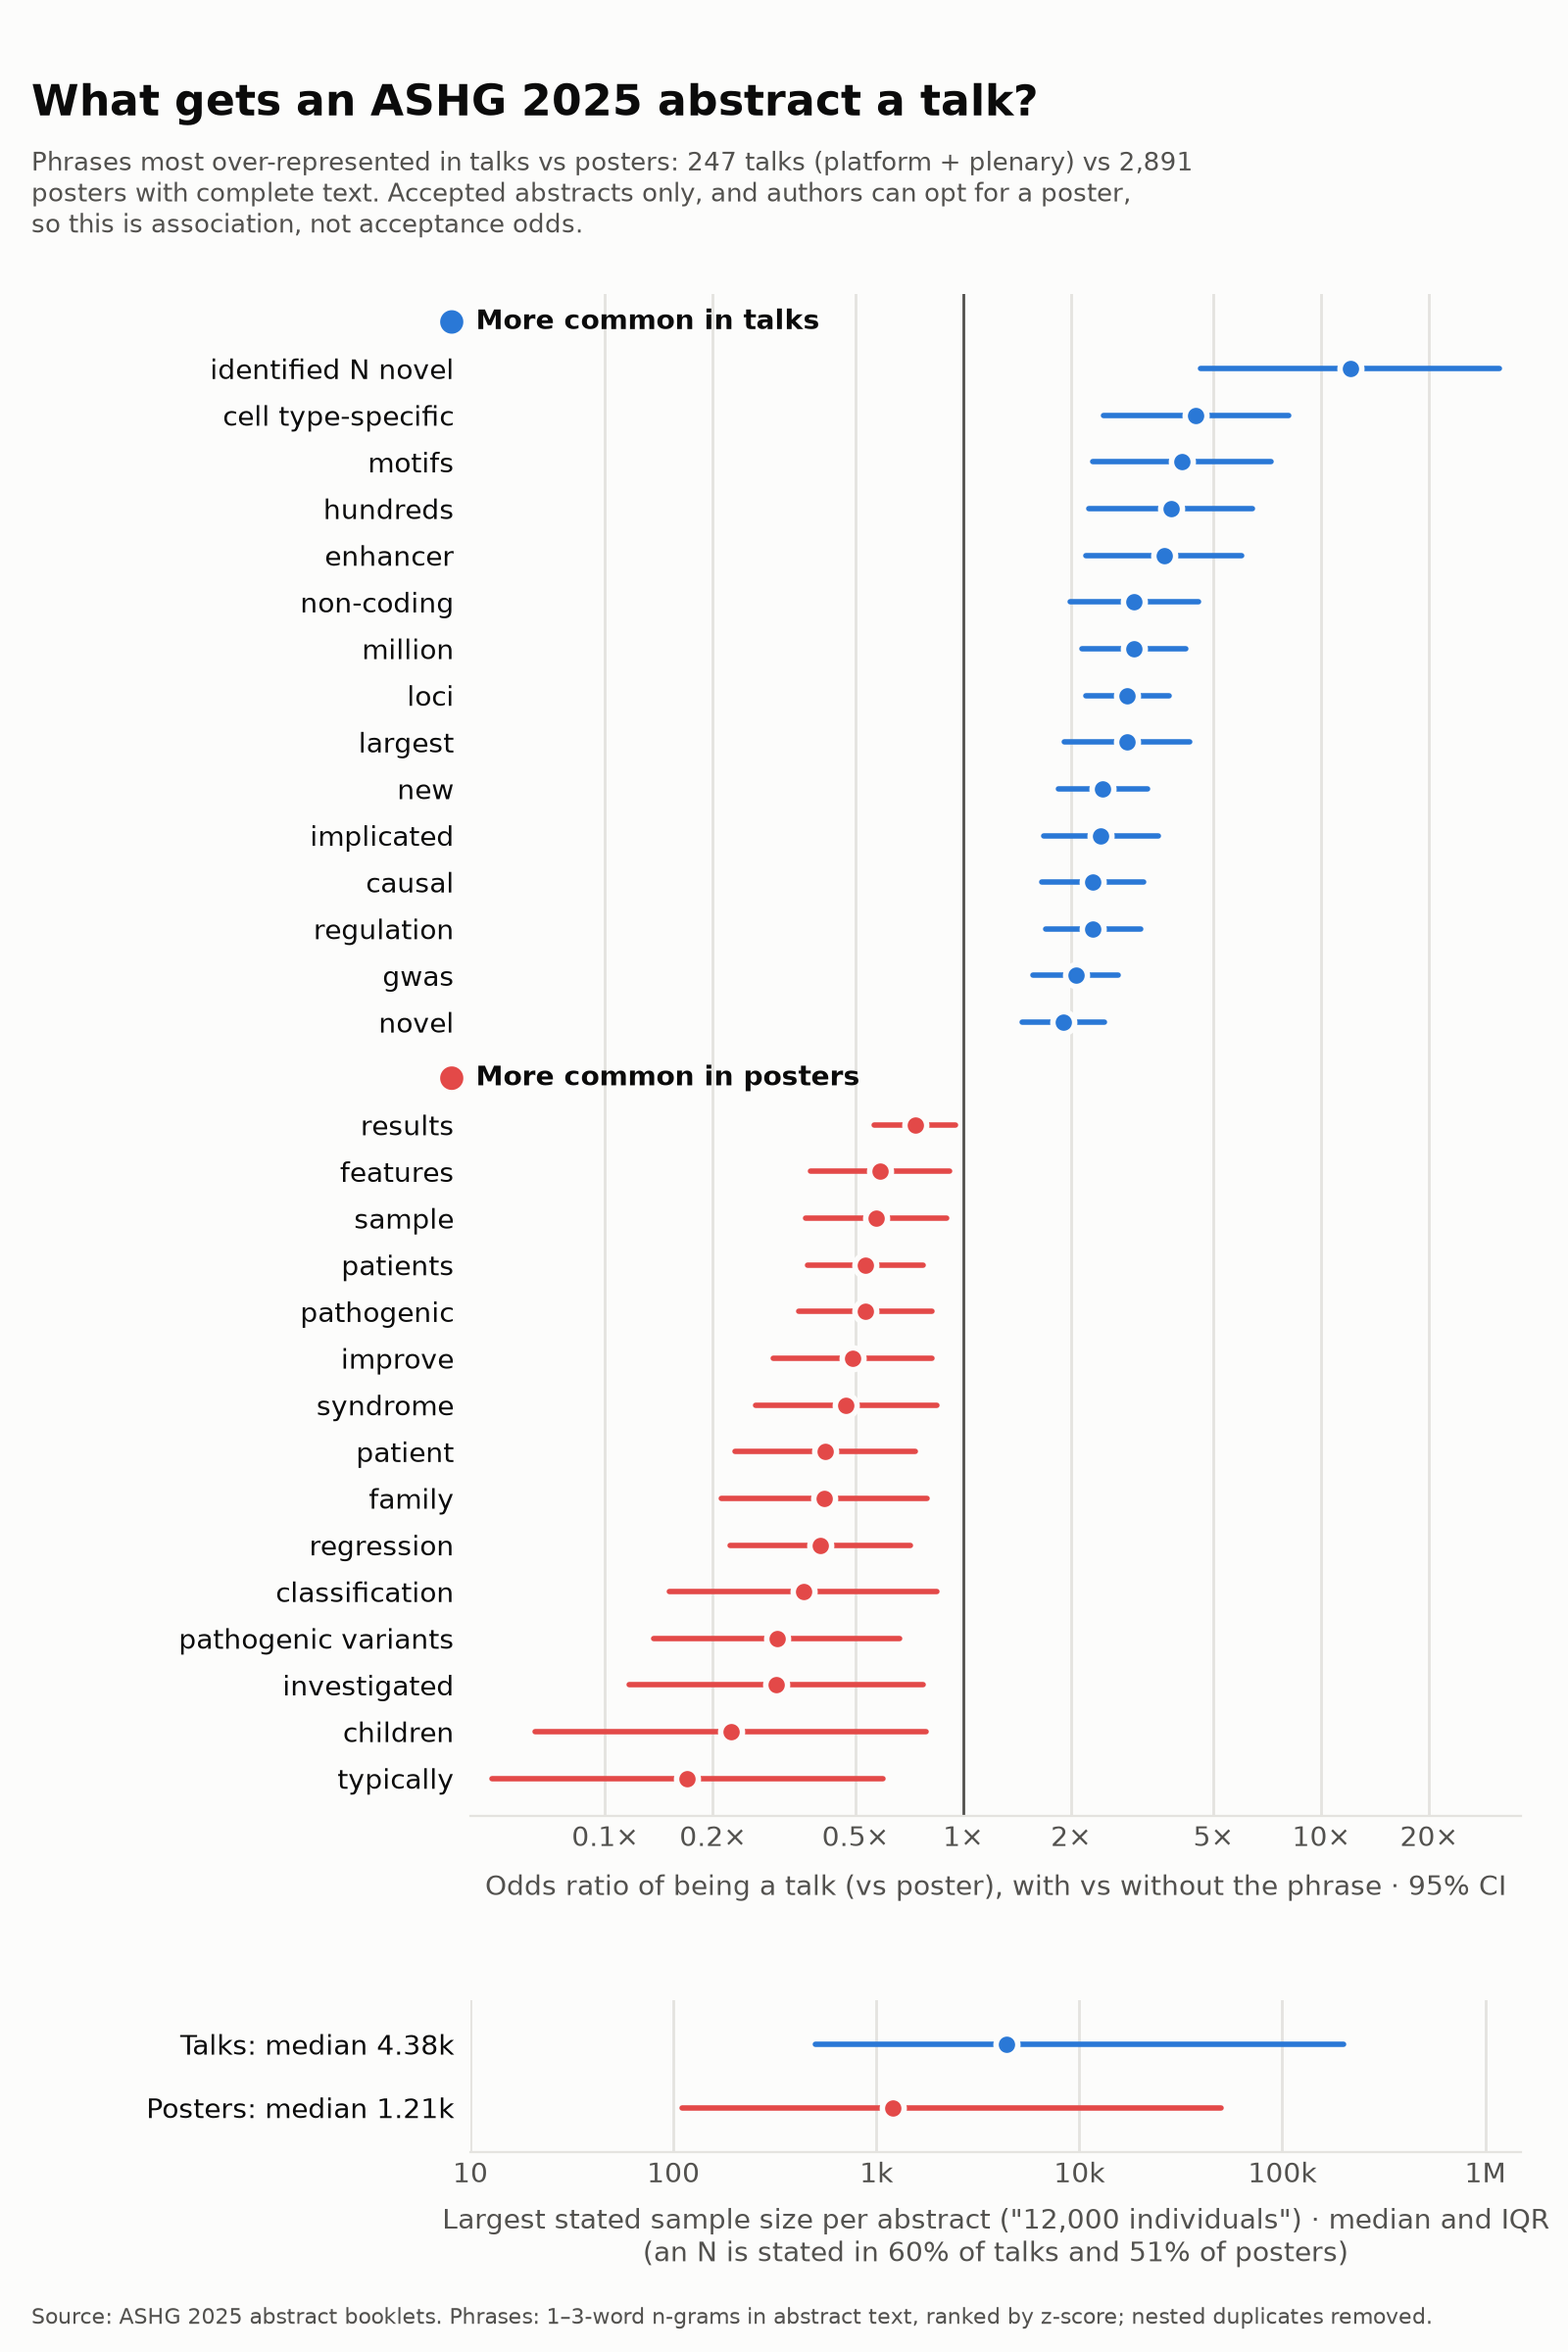
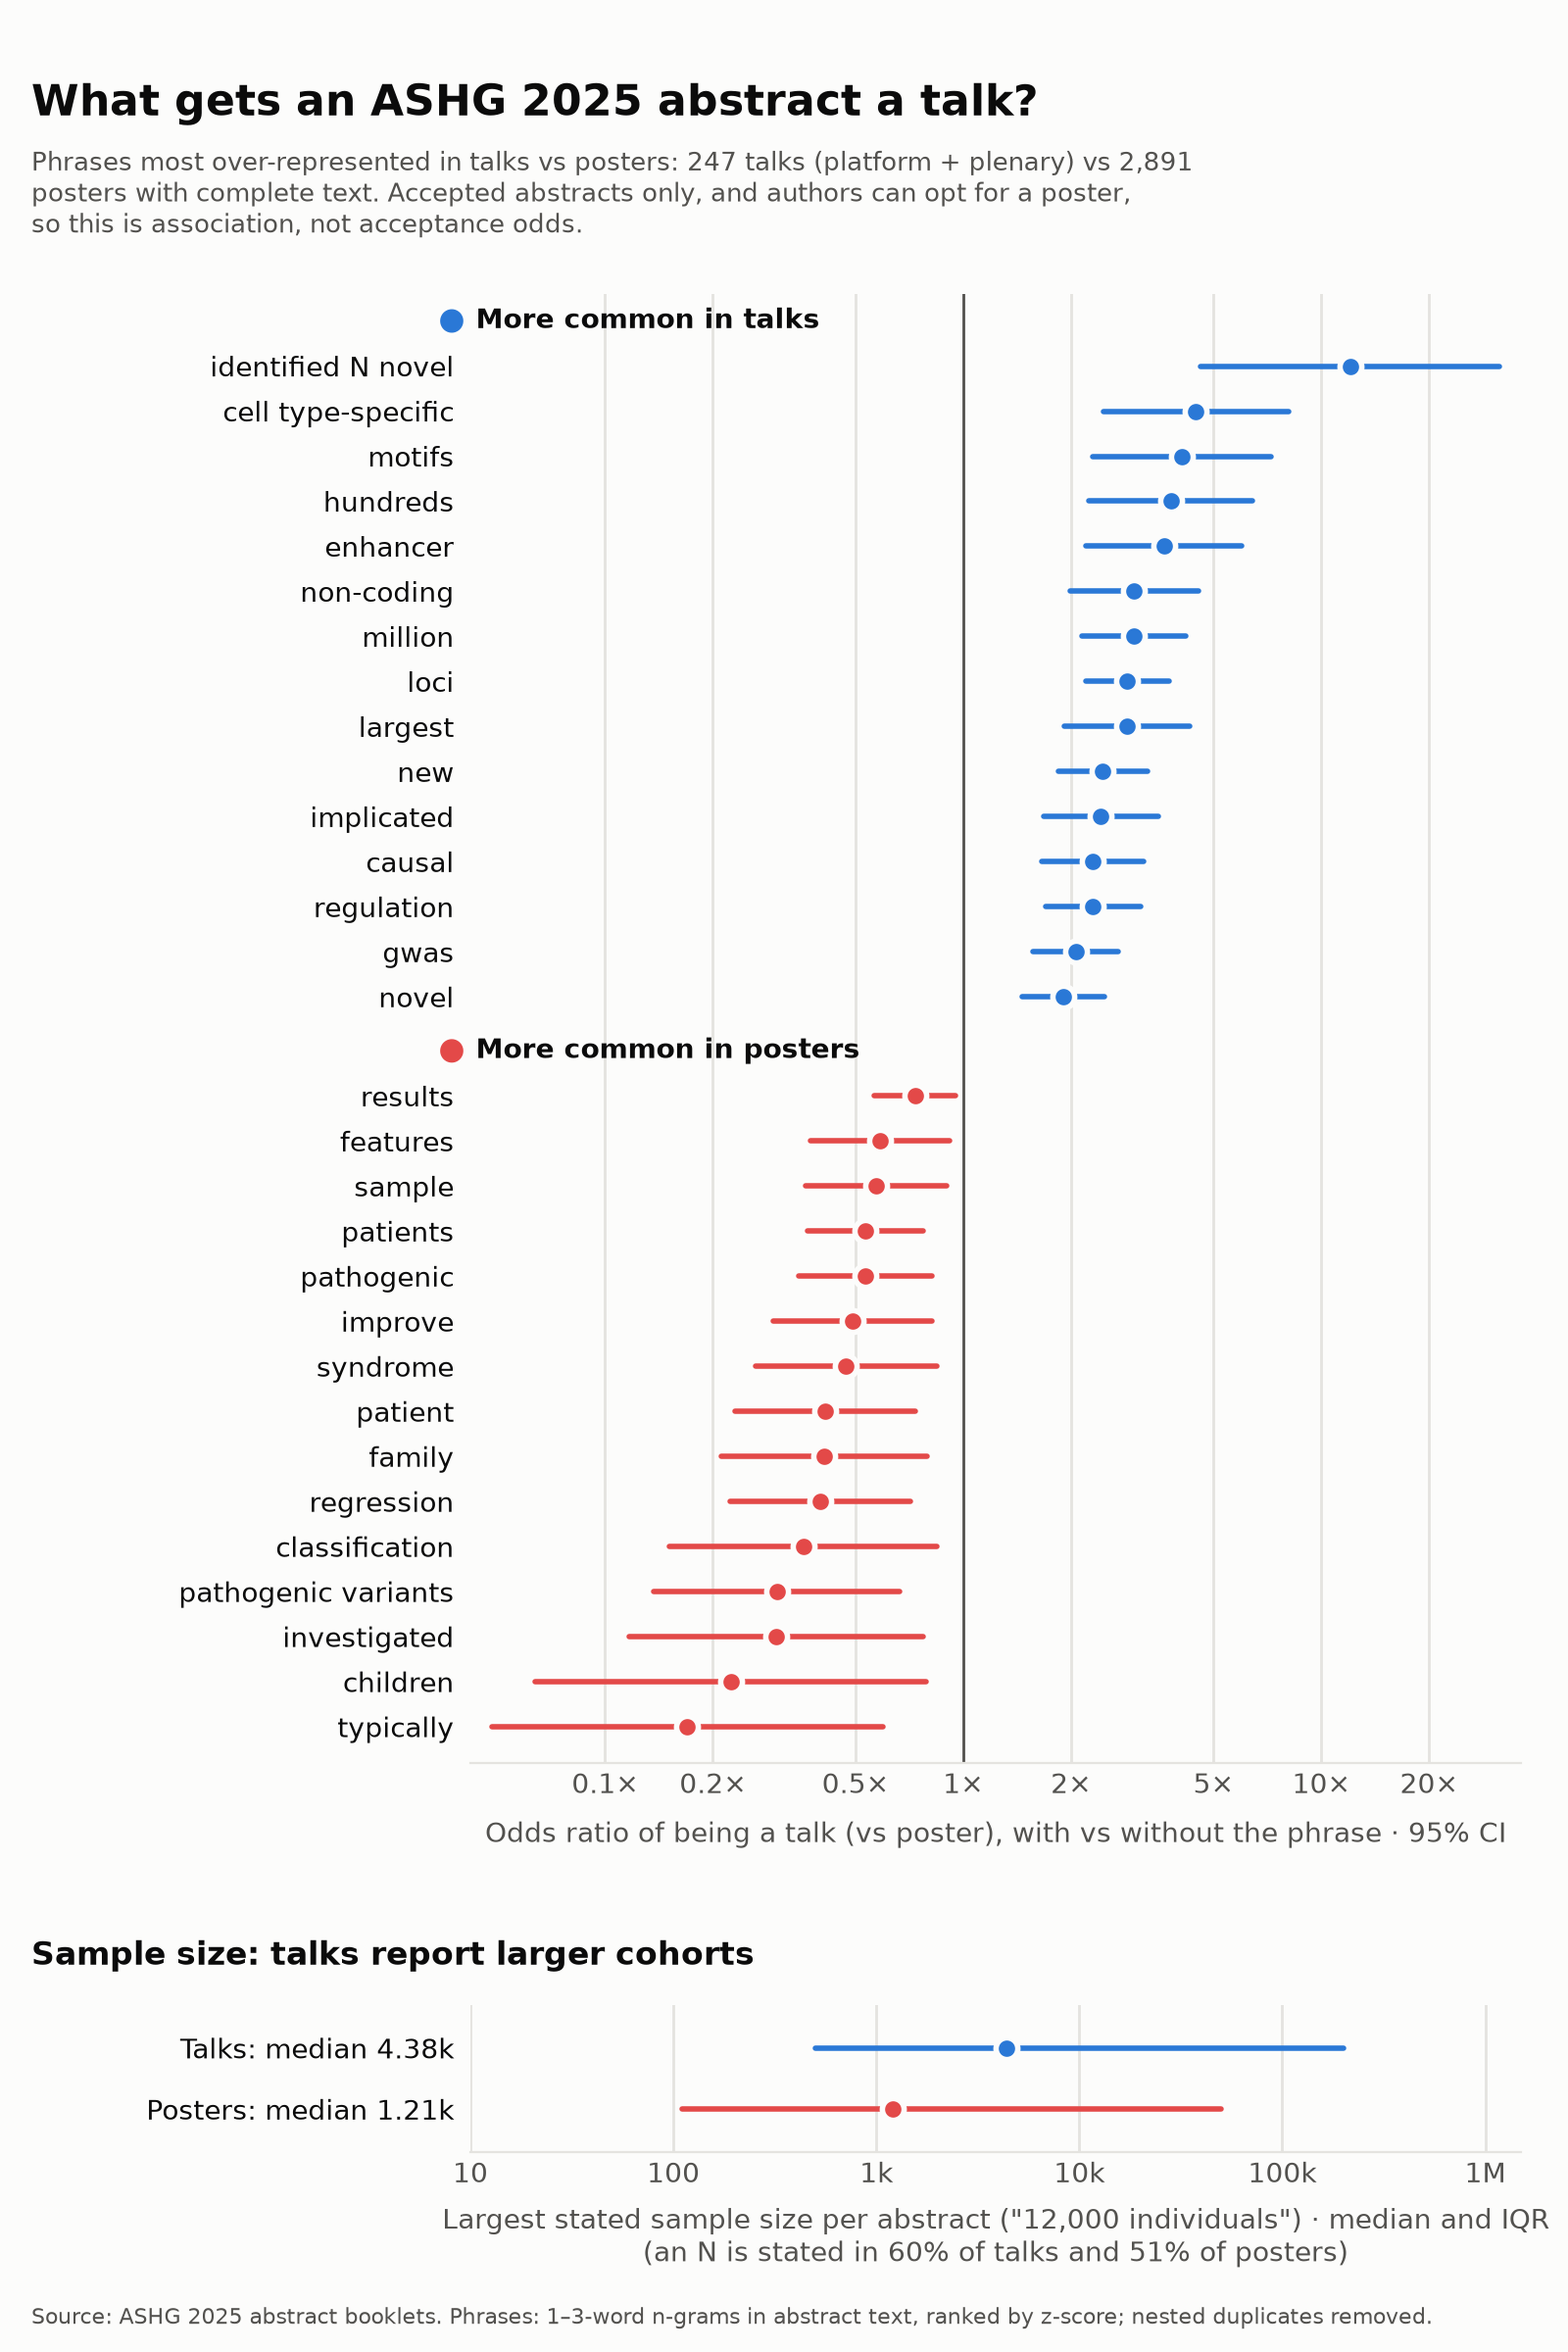
Add a sub-figure header to the sample-size panel

diff --git a/src/ashg/figures.py b/src/ashg/figures.py
@@ -107,13 +107,17 @@ def sample_size_panel(ax, ss):
     ax.set_yticks([0, 1], [f"{label}: median {short_number(ss.loc[t].median_max_n)}"
                            for t, label in [("poster", "Posters"), ("talk", "Talks")]])
     ax.set_ylim(-0.7, 1.7)
+    # sub-figure header at the figure's left margin, in line with the title
+    ax.annotate("Sample size: talks report larger cohorts", (0.02, 1), xycoords=("figure fraction", "axes fraction"),
+                xytext=(0, 12), textcoords="offset points", ha="left", va="bottom", color=INK,
+                fontweight="bold", fontsize=12)
     ax.set_xlabel(f"Largest stated sample size per abstract (\"12,000 individuals\") · median and IQR\n"
                   f"(an N is stated in {ss.loc['talk'].coverage:.0%} of talks and {ss.loc['poster'].coverage:.0%} "
                   f"of posters)", color=INK_2, labelpad=6)
 
 
 def headline(premium, summary, ss, year, k, path):
-    fig, gs = new_figure((8, 12), nrows=2, height_ratios=[15, 1.5], hspace=0.22,
+    fig, gs = new_figure((8, 12), nrows=2, height_ratios=[15, 1.5], hspace=0.3,
                          left=0.3, right=0.97, top=0.875, bottom=0.085)
     phrases_panel(fig.add_subplot(gs[0]), premium, k)
     sample_size_panel(fig.add_subplot(gs[1]), ss)
